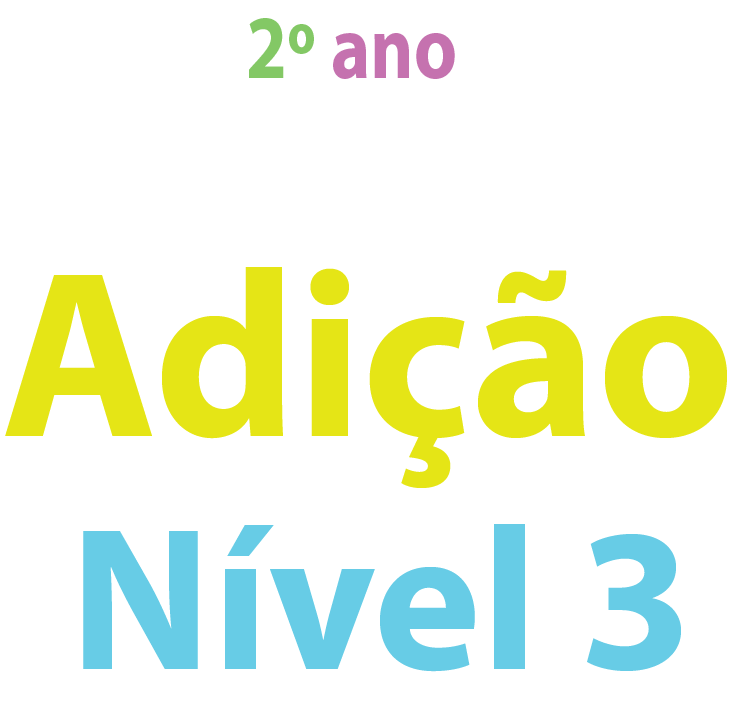
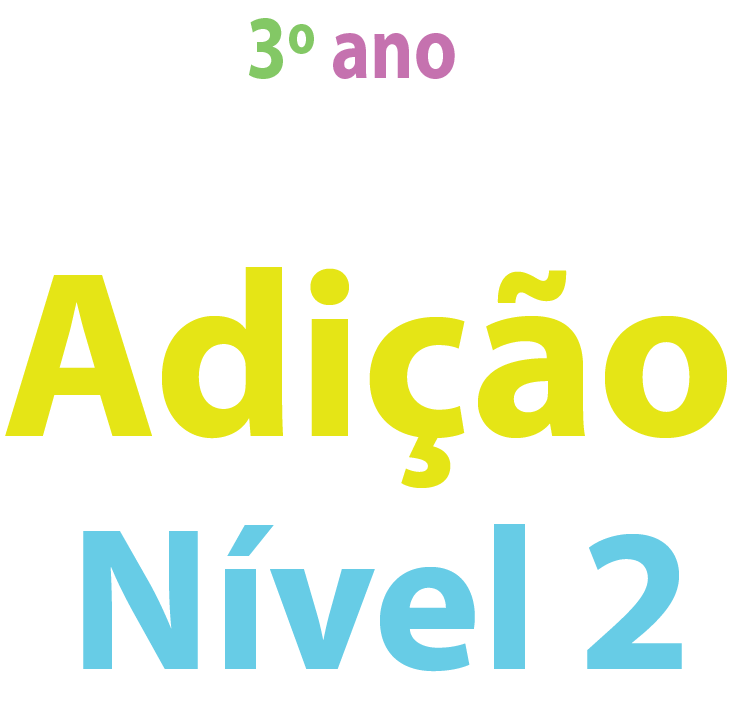
feat: img & title

Changed region(s): [[0.8082, 0.7639, 0.9279, 0.9472], [0.3293, 0.0306, 0.3891, 0.1222]]

diff --git a/index.html b/index.html
@@ -4,7 +4,7 @@
 <head>
   <meta charset="UTF-8">
   <meta name="viewport" content="width=device-width, initial-scale=1.0">
-  <title>Adição - Nível 3</title>
+  <title>Adição - Nível 2</title>
 
   <link rel="shortcut icon" href="./favicon.ico" />
   <!-- Chrome, Firefox OS and Opera -->
